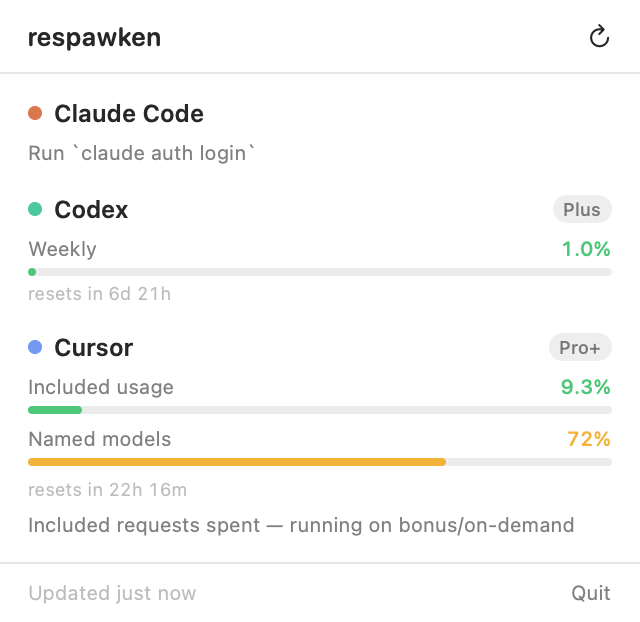
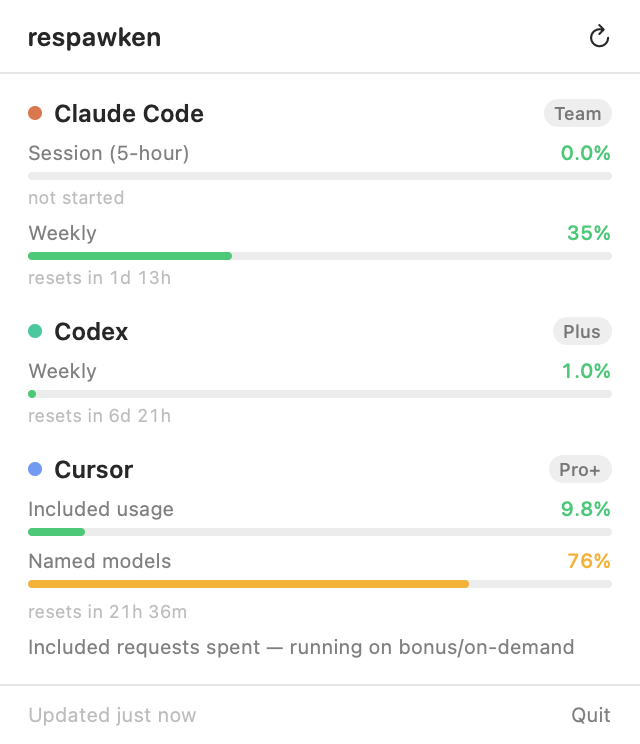
Claude Code usage verified against the live OAuth endpoint
The session window reports 0% with a null reset while idle, which read the
same as having plenty of headroom. The parallel limits array carries the
is_active flag the window objects lack, so an idle window now says
"not started" instead of showing a bare 0%.

diff --git a/Sources/Respawken/Providers/ClaudeProvider.swift b/Sources/Respawken/Providers/ClaudeProvider.swift
@@ -89,16 +89,25 @@ struct ClaudeProvider: UsageProvider {
     // MARK: - Payload
 
     /// Windows Anthropic reports, in the order they should appear.
-    private static let knownWindows: [(key: String, title: String)] = [
-        ("five_hour", "Session (5-hour)"),
-        ("seven_day", "Weekly"),
-        ("seven_day_opus", "Weekly · Opus"),
-        ("seven_day_sonnet", "Weekly · Sonnet"),
-        ("seven_day_routines", "Weekly · Routines"),
-        ("seven_day_cowork", "Weekly · Cowork"),
+    /// Each window's payload key, display name, and the matching `kind` in the `limits` array.
+    private static let knownWindows: [(key: String, title: String, kind: String)] = [
+        ("five_hour", "Session (5-hour)", "session"),
+        ("seven_day", "Weekly", "weekly_all"),
+        ("seven_day_opus", "Weekly · Opus", "weekly_opus"),
+        ("seven_day_sonnet", "Weekly · Sonnet", "weekly_sonnet"),
+        ("seven_day_routines", "Weekly · Routines", "weekly_routines"),
+        ("seven_day_cowork", "Weekly · Cowork", "weekly_cowork"),
     ]
 
     private func parse(_ json: [String: Any], credentials: Credentials) -> ProviderSnapshot {
+        // The parallel `limits` array is the only place that says whether a window is running.
+        var activeByKind: [String: Bool] = [:]
+        for limit in json["limits"] as? [[String: Any]] ?? [] {
+            if let kind = limit.string("kind") {
+                activeByKind[kind] = limit["is_active"] as? Bool ?? true
+            }
+        }
+
         var windows: [UsageWindow] = []
         for entry in Self.knownWindows {
             guard let node = json.dict(entry.key),
@@ -108,7 +117,8 @@ struct ClaudeProvider: UsageProvider {
                 id: entry.key,
                 title: entry.title,
                 usedPercent: used,
-                resetsAt: node.date("resets_at", "reset_at", "resetsAt")
+                resetsAt: node.date("resets_at", "reset_at", "resetsAt"),
+                isActive: activeByKind[entry.kind] ?? true
             ))
         }
 

diff --git a/Sources/Respawken/Probe.swift b/Sources/Respawken/Probe.swift
@@ -25,8 +25,9 @@ enum Probe {
                         .compactMap { $0 }.joined(separator: " · ")
                     print("  \(meta)")
                     for window in snapshot.windows {
-                        let resets = window.resetsAt.map { " resets in \(Format.countdown(to: $0))" } ?? ""
-                        print("  - \(window.title): \(Format.percent(window.clamped))\(resets)")
+                        let suffix = window.resetsAt.map { " resets in \(Format.countdown(to: $0))" }
+                            ?? (window.isActive ? "" : " (not started)")
+                        print("  - \(window.title): \(Format.percent(window.clamped))\(suffix)")
                     }
                     if let note = snapshot.note { print("  note: \(note)") }
                 case .signedOut(let hint):

diff --git a/Sources/Respawken/Model.swift b/Sources/Respawken/Model.swift
@@ -41,6 +41,9 @@ struct UsageWindow: Identifiable {
     /// 0...100
     let usedPercent: Double
     let resetsAt: Date?
+    /// False when the window exists but hasn't started — an idle Claude session window
+    /// reports 0% with no reset time, which shouldn't read the same as "plenty left".
+    var isActive: Bool = true
 
     var clamped: Double { min(max(usedPercent, 0), 100) }
 }

diff --git a/Sources/Respawken/PanelView.swift b/Sources/Respawken/PanelView.swift
@@ -167,6 +167,10 @@ private struct WindowRow: View {
                     .font(.system(size: 9))
                     .foregroundStyle(.tertiary)
                     .monospacedDigit()
+            } else if !window.isActive {
+                Text("not started")
+                    .font(.system(size: 9))
+                    .foregroundStyle(.tertiary)
             }
         }
     }

diff --git a/TODO.md b/TODO.md
@@ -7,17 +7,18 @@
 - [x] **Codex** — live usage, plan, weekly window, reset countdown
 - [x] **Codex** — offline fallback to the last session log when the API is unreachable
 - [x] **Cursor** — live usage, plan, billing-cycle reset, on-demand spend
+- [x] **Claude Code** — live session and weekly windows, plan, reset countdown
+- [x] An idle Claude session window reads "not started" rather than a bare 0%
 - [x] Signed-out and error states that read as "no data", not "0% used"
 - [x] Auto-refresh every 2 minutes + manual refresh; countdowns tick every minute
 - [x] `--probe` (print live values) and `--preview` (render the UI to a PNG)
 - [x] `build.sh` producing a signed `Respawken.app`
 
-## Unverified
+## Known gaps
 
-- [ ] **Claude Code** — written against the documented OAuth usage endpoint but never seen
-      respond, because this machine is signed out (`claude auth status` → `loggedIn: false`,
-      and the Keychain item has empty tokens). Run `claude auth login`, then `--probe` to
-      confirm the window names and percentages parse correctly.
+- Claude shows no account email — the usage endpoint doesn't return one, unlike Codex and Cursor.
+- Claude's Opus/Sonnet/Cowork weekly windows are parsed but all came back `null` on a Team plan,
+  so those rows are still unproven.
 
 ## Not done yet
 

diff --git a/README.md b/README.md
@@ -41,7 +41,7 @@ you to log in again and stores nothing of its own.
 | --- | --- | --- |
 | **Codex** | `~/.codex/auth.json` → `chatgpt.com/backend-api/wham/usage` | Falls back to the `rate_limits` block in the newest session log in `~/.codex/sessions`, so it still shows last-known values offline. |
 | **Cursor** | `state.vscdb` → `cursor.com/api/usage-summary` | Reuses the bearer token Cursor.app already holds, so no browser cookie decryption. Cursor bills monthly, so "resets" is the end of the billing cycle. |
-| **Claude Code** | `~/.claude/.credentials.json` or the `Claude Code-credentials` Keychain item → `api.anthropic.com/api/oauth/usage` | Requires `claude auth login`. The token needs the `user:profile` scope; inference-only tokens can't read usage. |
+| **Claude Code** | `~/.claude/.credentials.json` or the `Claude Code-credentials` Keychain item → `api.anthropic.com/api/oauth/usage` | Requires `claude auth login`. The token needs the `user:profile` scope; inference-only tokens can't read usage. The response carries no account email. |
 
 Providers are polled every 2 minutes, concurrently, with a 12-second timeout each. One provider
 being slow or signed out never blocks the others.
